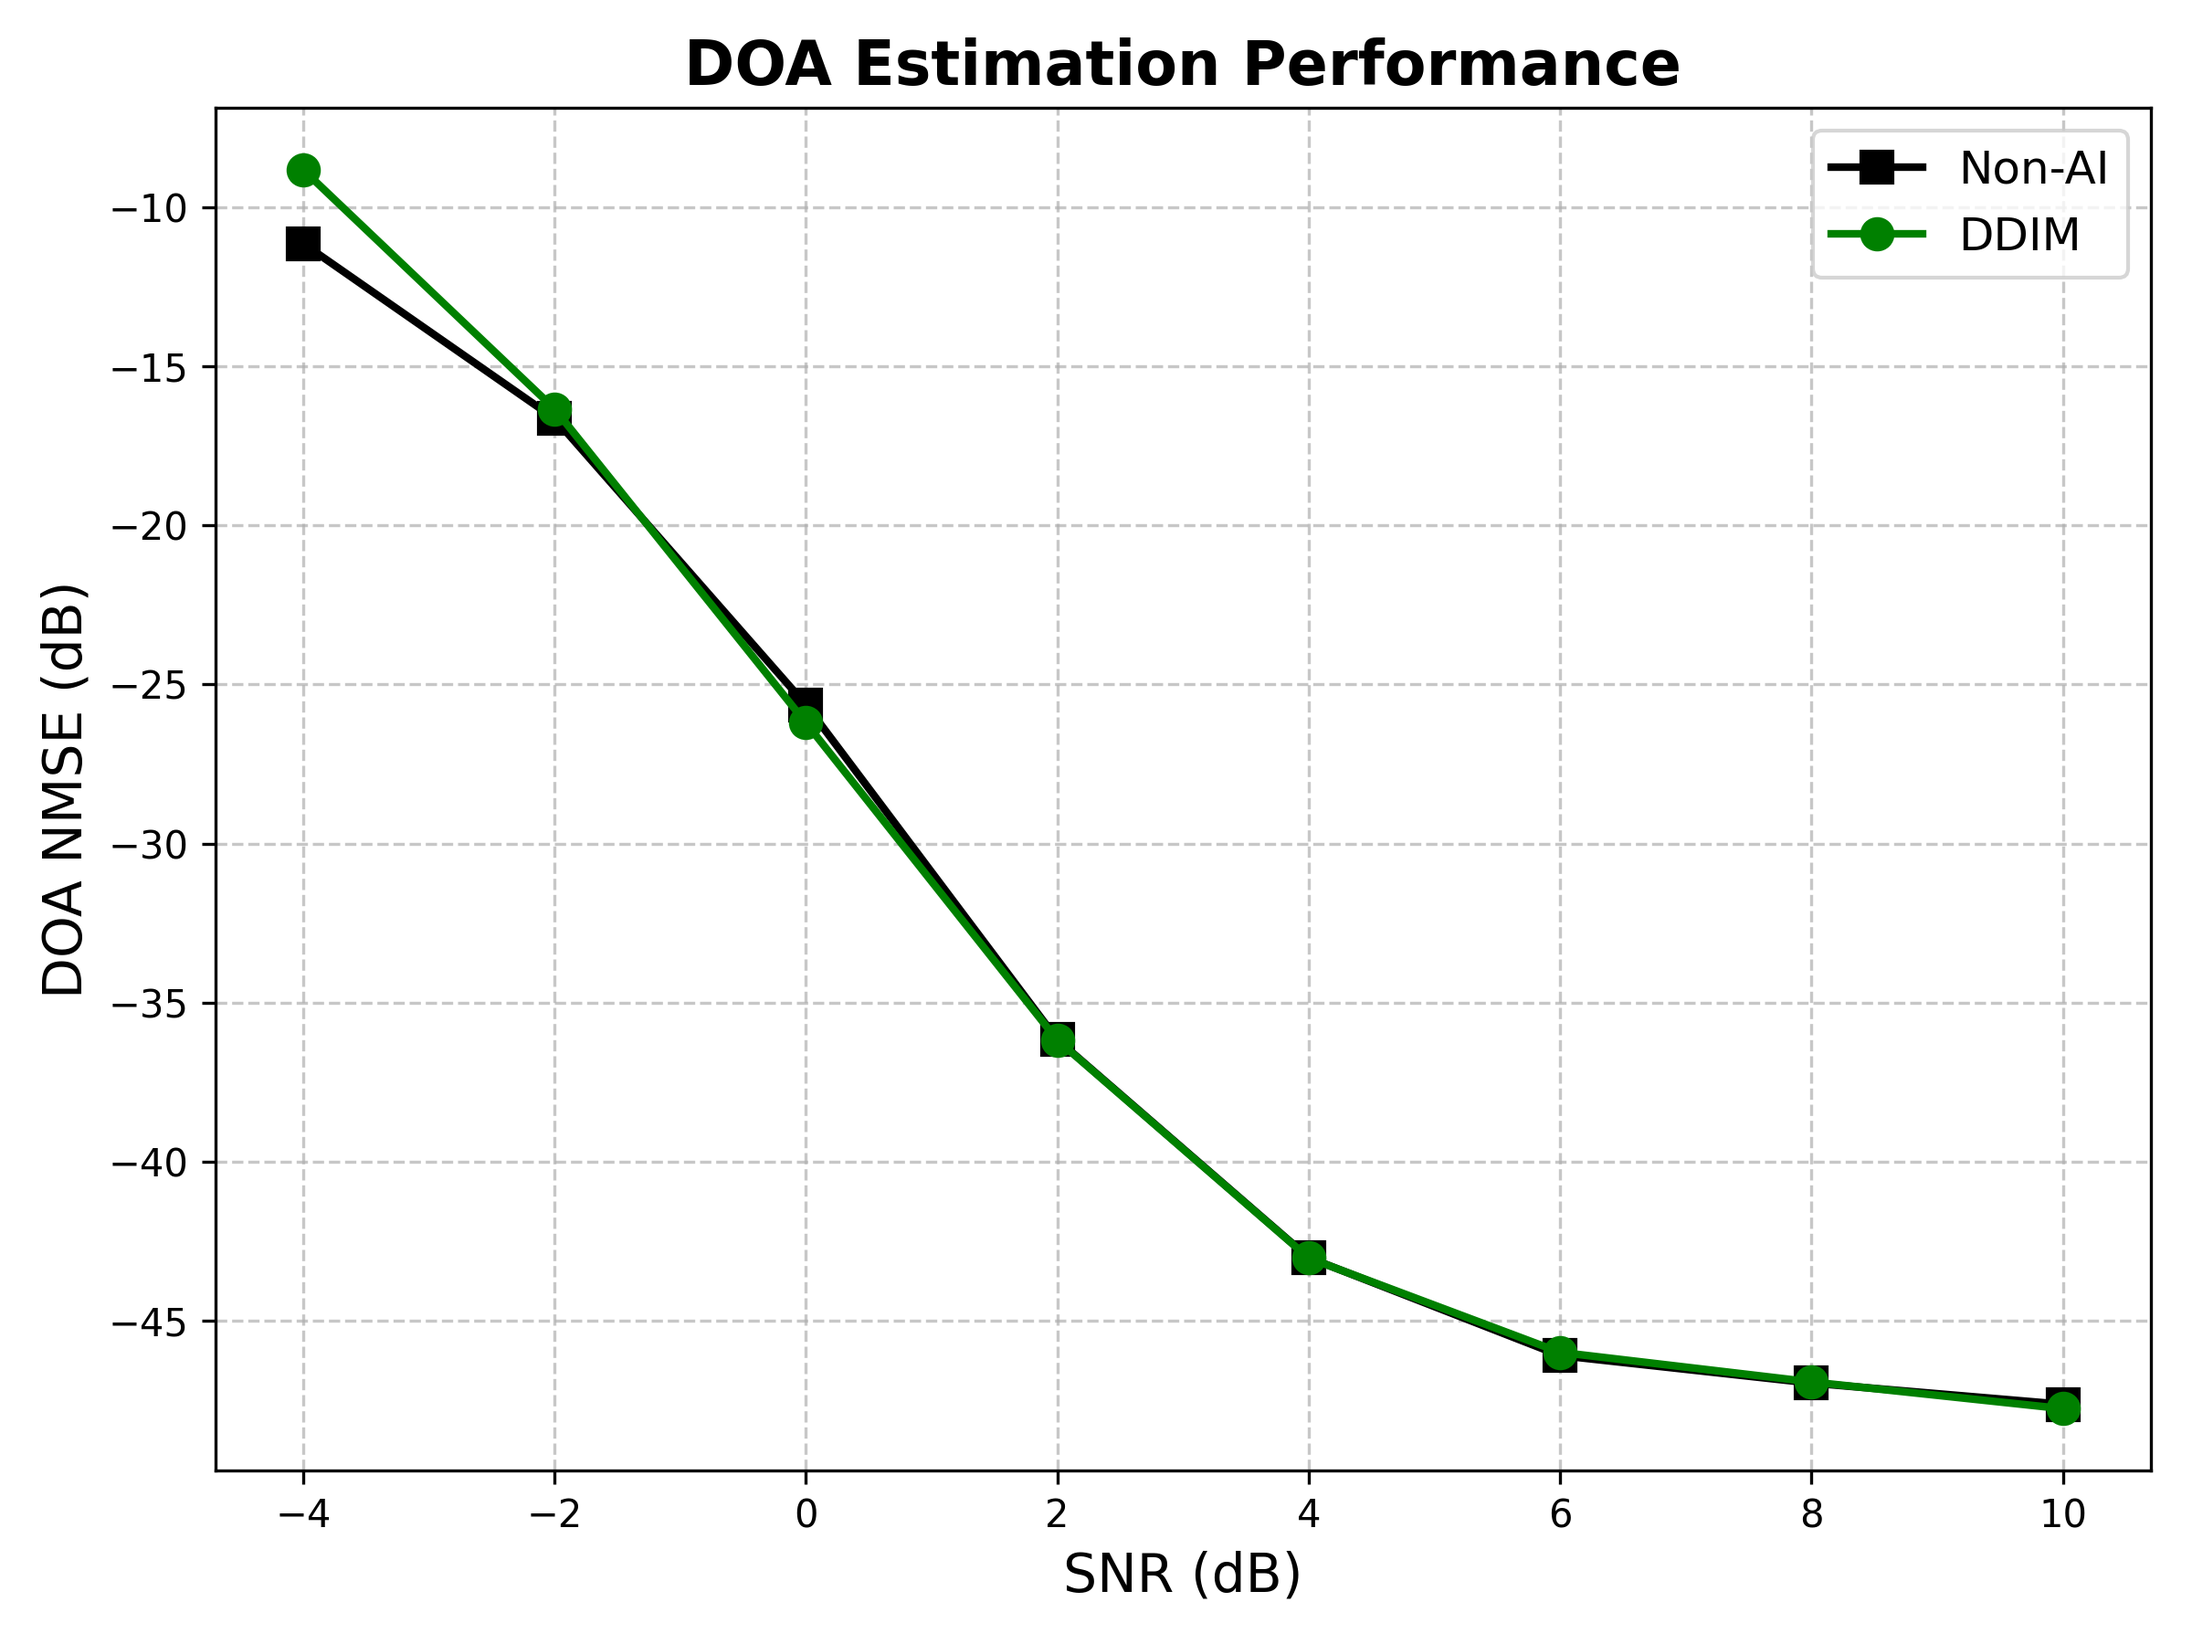
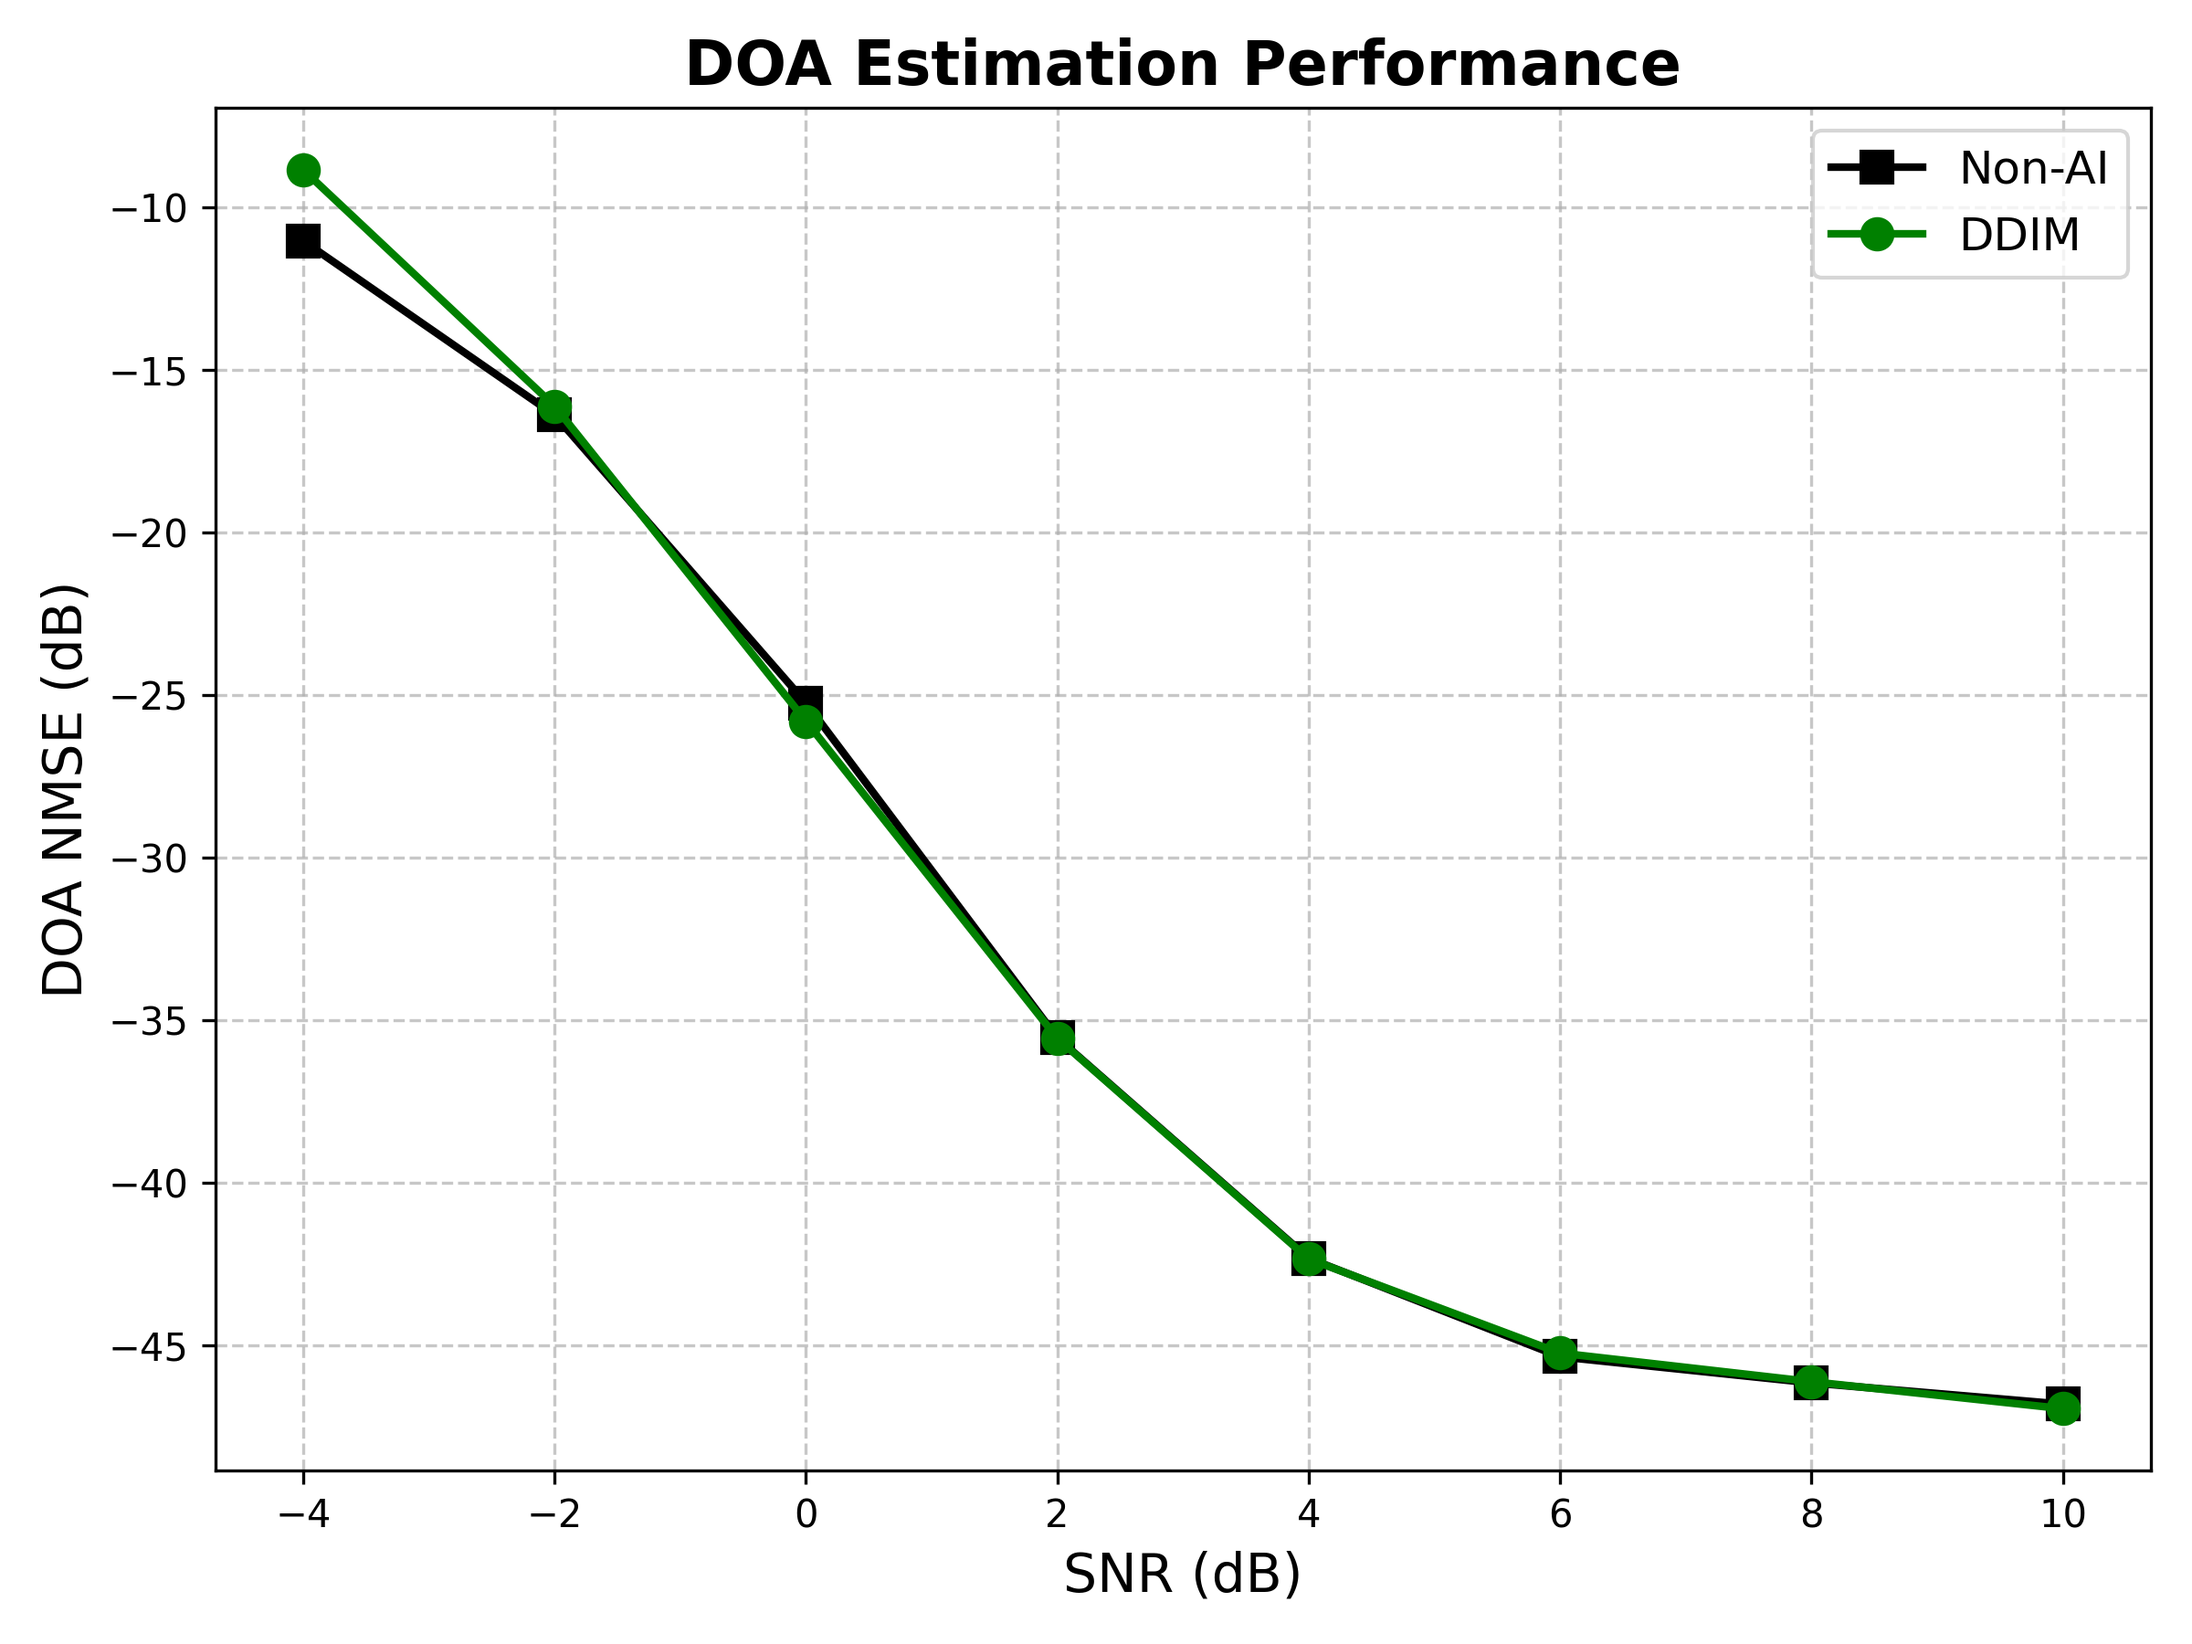
fix(algorithm): refine R_norm, build_M and Toeplitz_k settings
Optimized algorithm parameters and matrix construction to align performance:
- Set Toeplitz_K to 5 for sim/ and 4 for sim2/ to reduce estimation gap (-10.28 vs -11.29).
- Refined build_M logic and applied R_norm to loss calculation; achieved 10.27 score (55035d6).
- Confirmed Adam optimizer initialization scope does not impact results.

diff --git a/sim2/DDIM/test_nonAI_Toe.py b/sim2/DDIM/test_nonAI_Toe.py
@@ -4,6 +4,8 @@ import numpy as np
 import os
 import matplotlib.pyplot as plt
 
+from em.stable_em_batch import steering_vector_batch
+
 # =============================
 # 1. Configuration
 # =============================
@@ -132,30 +134,72 @@ def batch_music_initialization(Y, P, N, device):
     
     return theta_init
 
+def build_M_from_toeplitz_params_batch(c_param_batch, N):
+    """
+    Batch construction of Toeplitz matrices.
+    Args:
+        c_param_batch: (B, K) - first column parameters
+    Returns:
+        M: (B, N, N)
+    """
+    B, K = c_param_batch.shape
+    device = c_param_batch.device
+    
+    M = torch.eye(N, dtype=torch.complex64, device=device).unsqueeze(0).repeat(B, 1, 1)
+    
+    # c_param_batch[:, 0] is diagonal, usually handled or normalized separately
+    # logic similar to original:
+    for k in range(1, min(K, N)):
+        # val: (B,)
+        val = c_param_batch[:, k]
+        # Construct diagonals efficiently using diag_embed logic or masking
+        # For batch, simple loop over k adding to diagonals is fine
+        
+        # Create a diagonal mask for offset k
+        # We can construct the diagonal matrix for this k
+        # (B, N-k)
+        ones = torch.ones(N - k, dtype=torch.complex64, device=device)
+        diag_vals = val.unsqueeze(1) * ones.unsqueeze(0) # (B, N-k)
+        
+        M += torch.diag_embed(diag_vals, offset=k) + torch.diag_embed(torch.conj(diag_vals), offset=-k)
+        
+    return M
+
 # =============================
 # 3. Batched Solver
 # =============================
-def run_batch_solver(Y_batch, N, P, toeplitz_K=5, num_outer=5, num_inner=50, lr_theta=0.05, lr_M=0.01):
+def run_batch_solver(x0_batch, N, P, num_outer=2, num_inner=50, toeplitz_K=5, lr_theta=1e-2, lr_M=1e-2):
     """
     Runs the alternating estimation on the GPU for the entire batch.
     """
-    B = Y_batch.shape[0]
+    B = x0_batch.shape[0]
+    L = x0_batch.shape[2]
+
+    
+    R_y = torch.matmul(x0_batch, x0_batch.conj().transpose(1, 2)) / L
+    Ry_norm = torch.mean(torch.abs(R_y)**2, dim=(1, 2)) # (B,)
+
     
     # 1. Initialization
     print("  -> Running Batched MUSIC Init...")
-    theta_est = batch_music_initialization(Y_batch, P, N, device)
+    theta_est = batch_music_initialization(x0_batch, P, N, device)
     theta_est = theta_est.detach().requires_grad_(True)
     
-    # Initialize c_param (Batch, K)
-    # c[0] = 1, others small
-    c_init = torch.zeros(B, toeplitz_K, dtype=torch.complex64, device=device)
-    c_init[:, 0] = 1.0 + 0.0j
-    for k in range(1, toeplitz_K):
-        c_init[:, k] = 0.05 * (0.5**k) + 0j
-    c_param = c_init.detach().requires_grad_(True)
-    
-    Ry = batch_compute_covariance(Y_batch) # (B, N, N)
-    Ry_norm = torch.mean(torch.abs(Ry)**2, dim=(1,2)) # (B,) normalization factor per sample
+    # M initialization (Toeplitz)
+    if toeplitz_K is not None:
+        c_init = torch.zeros(B, toeplitz_K, dtype=torch.complex64, device=device)
+        c_init[:, 0] = 1.0 + 0.0j
+        for k in range(1, toeplitz_K):
+            c_init[:, k] = 0.05 * (0.5**k) + 0j
+        c_param = c_init.clone().detach().requires_grad_(True)
+        optimizer_M = optim.Adam([c_param], lr=lr_M)
+        use_toeplitz = True
+    else:
+        # Batch Random Init
+        real_param = (torch.eye(N, device=device).unsqueeze(0) + 0.01 * torch.randn(B, N, N, device=device)).requires_grad_(True)
+        imag_param = (0.01 * torch.randn(B, N, N, device=device)).requires_grad_(True)
+        optimizer_M = optim.Adam([real_param, imag_param], lr=lr_M)
+        use_toeplitz = False
 
     # 2. Optimization Loop
     print("  -> Running Batched Gradient Descent...")
@@ -174,6 +218,32 @@ def run_batch_solver(Y_batch, N, P, toeplitz_K=5, num_outer=5, num_inner=50, lr_
         M_eff = M_eff / m00_new
         return M_eff
 
+    def get_model_cov(M_curr, theta_curr):
+        # \M_curr: (B, N, N), theta_curr: (B, P)
+        A = steering_vector_batch(N, theta_curr, device=device) # (B, N, P)
+        # \R = \M \A \A^H \M^H,  \A \A^H -> (B, N, N)
+        AAH = torch.matmul(A, A.conj().transpose(1, 2))
+        R = torch.matmul(M_curr, torch.matmul(AAH, M_curr.conj().transpose(1, 2)))
+        return R
+
+    def build_M():
+        M_raw = batch_build_M_from_c(c_param, N, device) # (B, N, N)
+        # Normalize: M[b, 0, 0] must be 1 real
+        # Extract diagonal 0,0: M_raw[:, 0, 0] -> (B,)
+        m00 = M_raw[:, 0, 0]
+        norm_factor = (m00 / torch.abs(m00)).view(B, 1, 1)
+        M_eff = M_raw / norm_factor
+        
+        # Force real unity (divide by real part of new 0,0)
+        m00_new = M_eff[:, 0, 0].real.view(B, 1, 1)
+        M_eff = M_eff / m00_new
+        return M_eff
+        
+    def compute_loss(R1, R2):
+        # Frobenius norm squared per sample: (B, N, N) -> (B,)
+        diff = R1 - R2
+        return torch.mean(torch.abs(diff)**2, dim=(1, 2)) / Ry_norm
+
     for outer in range(num_outer):
         
         # Update Theta
@@ -190,7 +260,7 @@ def run_batch_solver(Y_batch, N, P, toeplitz_K=5, num_outer=5, num_inner=50, lr_
             R_model = torch.matmul(T1, T1.conj().transpose(1, 2))
             
             # Batch Loss
-            diff = Ry - R_model
+            diff = R_y - R_model
             loss_per_sample = torch.mean(torch.abs(diff)**2, dim=(1, 2)) / Ry_norm
             loss = torch.mean(loss_per_sample) # Mean over batch
             
@@ -199,22 +269,38 @@ def run_batch_solver(Y_batch, N, P, toeplitz_K=5, num_outer=5, num_inner=50, lr_
             with torch.no_grad():
                 theta_est.clamp_(-90.0, 90.0)
 
-        # Update M (c_param)
-        opt_M = optim.Adam([c_param], lr=lr_M)
+        # # Update M (c_param)
+        # opt_M = optim.Adam([c_param], lr=lr_M)
+        # for _ in range(num_inner):
+        #     opt_M.zero_grad()
+        #     A_est = batch_steering_vector(N, theta_est, device)
+        #     M_eff = get_batch_M(c_param)
+            
+        #     T1 = torch.matmul(M_eff, A_est)
+        #     R_model = torch.matmul(T1, T1.conj().transpose(1, 2))
+            
+        #     diff = R_y - R_model
+        #     loss_per_sample = torch.mean(torch.abs(diff)**2, dim=(1, 2)) / Ry_norm
+        #     loss = torch.mean(loss_per_sample)
+            
+        #     loss.backward()
+        #     opt_M.step()
+
+        # --- Update M (with Monotone Check) ---
         for _ in range(num_inner):
-            opt_M.zero_grad()
-            A_est = batch_steering_vector(N, theta_est, device)
-            M_eff = get_batch_M(c_param)
+                
+            # Current loss for comparison
+            with torch.no_grad():
+                M_curr = build_M()
+                # cur_losses = compute_loss(R_y, get_model_cov(M_curr, theta_est))
             
-            T1 = torch.matmul(M_eff, A_est)
-            R_model = torch.matmul(T1, T1.conj().transpose(1, 2))
-            
-            diff = Ry - R_model
-            loss_per_sample = torch.mean(torch.abs(diff)**2, dim=(1, 2)) / Ry_norm
-            loss = torch.mean(loss_per_sample)
-            
-            loss.backward()
-            opt_M.step()
+            # 2. Step
+            optimizer_M.zero_grad()
+            M_curr = build_M()
+            R_model = get_model_cov(M_curr, theta_est)
+            losses = compute_loss(R_y, R_model)
+            losses.sum().backward()
+            optimizer_M.step()
             
     # Finalize
     theta_est_sorted, _ = torch.sort(theta_est, dim=1)
@@ -245,6 +331,7 @@ def run_benchmark():
     }
     
     print("Starting Batch GPU Benchmark...")
+    from em.stable_em_batch import alternating_estimation_monotone_batch
 
     for snr in snr_levels:
         samples = full_dataset[snr]
@@ -262,7 +349,16 @@ def run_benchmark():
         P = theta_true_batch.shape[1]
         
         # 2. Run Batch Solver
-        theta_est_batch, M_est_batch = run_batch_solver(Y_batch, N, P)
+        theta_est_batch, M_est_batch = run_batch_solver(Y_batch, N, P, num_outer=5, num_inner=50, toeplitz_K=5, lr_theta=5e-2, lr_M=1e-2)
+        # theta_est_batch, M_est_batch = alternating_estimation_monotone_batch(
+        #     Y_batch, N, P,
+        #     num_outer=5,
+        #     num_inner=50,
+        #     lr_theta=0.05,
+        #     lr_M=0.01,
+        #     toeplitz_K=5,
+        #     device=device
+        # )
         
         # 3. Compute Metrics (Vectorized)
         # Sort ground truth for comparison

diff --git a/sim2/DDIM/test_baseline_non_AI.py b/sim2/DDIM/test_baseline_non_AI.py
@@ -18,7 +18,7 @@ NUM_OUTER_EM = 5
 NUM_INNER_EM = 50     
 LR_THETA = 5e-2
 LR_M = 1e-2
-TOEPLITZ_K = 4        
+TOEPLITZ_K = 5        
 
 RESULT_FILE_NAME = "NMSE_Baseline_non_AI.mat"
 
@@ -60,7 +60,7 @@ def run_baseline_test():
                                             num_inner=NUM_INNER_EM,
                                             lr_theta=LR_THETA, 
                                             lr_M=LR_M,
-                                            toeplitz_K=TOEPLITZ_K,
+                                            toeplitz_K=5,
                                             device=device)
 
         # 4. --- Calculate NMSE for each SNR level ---

diff --git a/sim2/DDIM/main.py b/sim2/DDIM/main.py
@@ -134,7 +134,7 @@ elif MODE == 'test':
                                             x0_est_all, N, P,
                                             num_outer=5, num_inner=50,
                                             lr_theta=5e-2, lr_M=1e-2,
-                                            toeplitz_K=4,device=device)
+                                            toeplitz_K=5, device=device)
 
         # Calculate NMSE for each SNR level
         theta_nmse_db, M_nmse_db = calculate_nmse_theta_M(theta_est_batch, M_est_batch,
